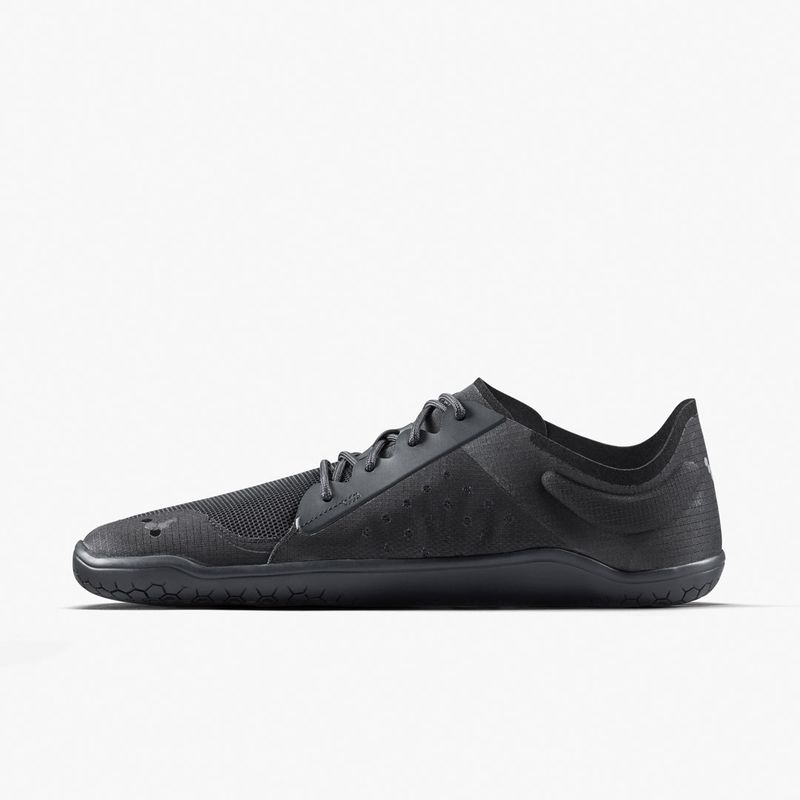
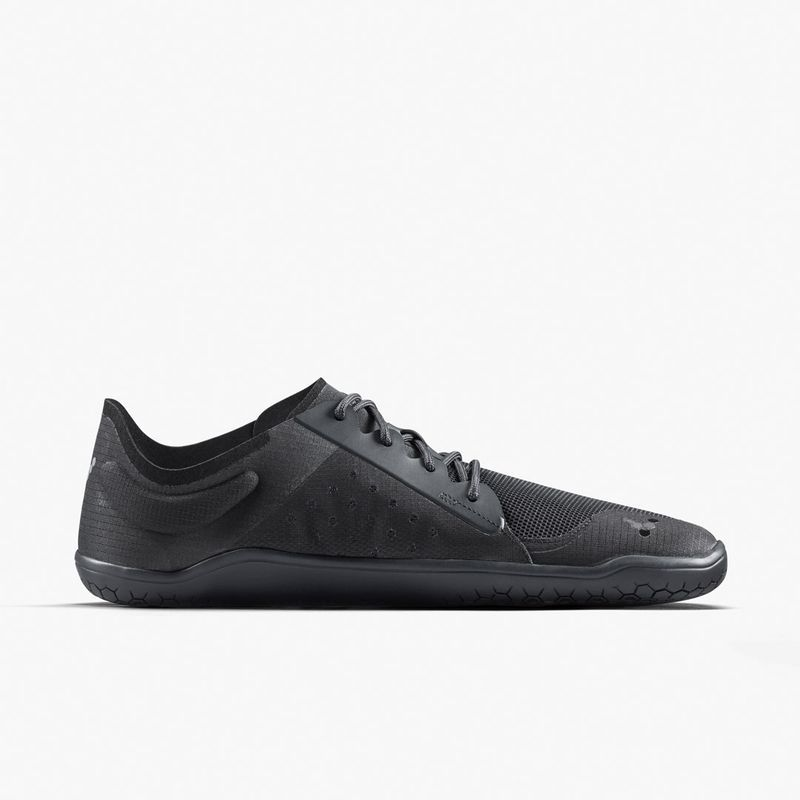
Reshoot the hero and section imagery, switch the body face, fix card defaults
Body type moves from Saira Semi Condensed to IBM Plex Sans Condensed,
picked by measuring rather than by eye: the price string "THB 9,150.00" at
18px is 102px in the reference's Knockout 31 and 102px in IBM Plex Sans
Condensed against Saira's 100px, and the general width sample is 858 vs
Knockout's 870 (Saira 853). Knockout itself is a licensed H&Co face we
cannot serve.

Product cards now lead with the single-shoe shot and show the pair on
hover, which is the way round the reference does it, and the colourway name
is back under the price. The Primus Lite IV Obsidian side view was mirrored
relative to every other model, so it is flipped to match. Colour swatches
show the same single-shoe framing as the card, and the lightbox opens on
the shot that was clicked.

Imagery: the hero is a new pair — a men's frame with more attitude on the
left, and on the right a women's Primus Lite IV Mineral in white. The right
panel is mirrored so the white shoe lands on the outer edge instead of
behind the headline. The activity tiles are re-picked for what each one is
meant to say: bright white shoes in motion for Live, battle rope and Motus
Strength II for Train, and stride-over-rock for Trail. The three Rewild
Your Feet frames are now all Primus Lite IV, a model Barefootinc actually
stocks, rather than Motus Flex.

The B Corp badge was too small to read in both places and is now 132px in
the brand block and 140px in the footer. The store heading breaks after
[…]

Changed region(s): [[0.0625, 0.4688, 0.9375, 0.7812]]

diff --git a/src/components/ProductRail.jsx b/src/components/ProductRail.jsx
@@ -52,13 +52,13 @@ function ProductCard({ product, onOpen }) {
         {product.badge && <span className="card__badge">{product.badge}</span>}
         <img
           className="card__img"
-          src={colour.images[0]}
+          src={colour.images[1] || colour.images[0]}
           alt={`${product.name} — ${colour.name}`}
           loading="lazy"
         />
         <img
           className="card__img card__img--alt"
-          src={colour.images[1] || colour.images[0]}
+          src={colour.images[0]}
           alt=""
           aria-hidden="true"
           loading="lazy"
@@ -80,7 +80,7 @@ function ProductCard({ product, onOpen }) {
                 title={v.name}
                 aria-current={n === c}
               >
-                <img src={v.images[0]} alt="" loading="lazy" />
+                <img src={v.images[1] || v.images[0]} alt="" loading="lazy" />
               </button>
             </li>
           ))}
@@ -93,6 +93,7 @@ function ProductCard({ product, onOpen }) {
           </h3>
           <span className="card__price">{product.price}</span>
         </div>
+        <p className="card__colour">{colour.name}</p>
         <p className="card__activity">{product.activity}</p>
       </div>
     </article>
@@ -154,7 +155,7 @@ export default function ProductRail({ tab, setTab }) {
         <Gallery
           product={gallery.product}
           colour={gallery.colour}
-          startAt={0}
+          startAt={1}
           onClose={() => setGallery(null)}
         />
       )}

diff --git a/src/index.css b/src/index.css
@@ -5,13 +5,14 @@
    serve. Oswald and Saira Semi Condensed are the closest freely
    licensable matches. Width of "HAMBURGEFONTSIV" at 100px:
      Knockout 50  734  ->  Oswald               733
-     Knockout 31  870  ->  Saira Semi Condensed 853
-   (Arial = 1011 for scale.)
+     Knockout 31  870  ->  IBM Plex Sans Cond.  858
+   (Arial = 1011 for scale.) The price string "THB 9,150.00" at 18px is
+   102px in Knockout 31 and 102px in IBM Plex Sans Condensed.
    ------------------------------------------------------------------ */
 
 :root {
   --font-display: 'Oswald', 'Arial Narrow', Arial, sans-serif;
-  --font-body: 'Saira Semi Condensed', 'Arial Narrow', Arial, sans-serif;
+  --font-body: 'IBM Plex Sans Condensed', 'Arial Narrow', Arial, sans-serif;
 
   --black: #000000;
   --ink: #333333;          /* reference body colour */

diff --git a/src/components/Store.jsx b/src/components/Store.jsx
@@ -10,7 +10,10 @@ export default function Store() {
       <div className="container">
         <div className="store__grid">
           <div className="store__copy">
-            <h2 className="h-section">Try them on @ Barefootinc K Village</h2>
+            <h2 className="h-section">
+              Try them on
+              <span className="store__headBreak">@ Barefootinc K Village</span>
+            </h2>
             <p className="store__lede">
               Barefoot sizing is not the same as your normal shoe size. Come in, get
               measured, and let our team walk you through fit, feel and the

diff --git a/src/App.css b/src/App.css
@@ -504,7 +504,7 @@
 
 .intro__bcorp img {
   flex: 0 0 auto;
-  width: 66px;
+  width: 132px;
   height: auto;
 }
 
@@ -714,6 +714,13 @@
   line-height: 1.43;
   color: var(--ink-strong);
   white-space: nowrap;
+}
+
+.card__colour {
+  margin-top: 2px;
+  font-size: 13px;
+  line-height: 1.35;
+  color: var(--ink-muted);
 }
 
 .card__activity {
@@ -1228,6 +1235,10 @@
   }
 }
 
+.store__headBreak {
+  display: block;
+}
+
 .store__lede {
   max-width: 46ch;
 }
@@ -1456,7 +1467,7 @@
 .footer__bcorp {
   display: block;
   margin-top: 26px;
-  width: 72px;
+  width: 140px;
   height: auto;
 }
 

diff --git a/src/components/Footer.jsx b/src/components/Footer.jsx
@@ -57,9 +57,9 @@ export default function Footer() {
             </div>
 
             <p>
-              Barefootinc is the official VIVOBAREFOOT and Vibram FiveFingers
-              distributor in Thailand. Wide, thin and flexible footwear, and the
-              people to help you move in it.
+              Barefootinc is the official VIVOBAREFOOT distributor in Thailand.
+              Wide, thin and flexible footwear, and the people to help you move in
+              it.
             </p>
 
             <a

diff --git a/index.html b/index.html
@@ -14,7 +14,7 @@
     <link rel="preconnect" href="https://fonts.gstatic.com" crossorigin />
     <link
       rel="stylesheet"
-      href="https://fonts.googleapis.com/css2?family=Oswald:wght@400;500;600;700&family=Saira+Semi+Condensed:wght@400;500;600;700&display=swap"
+      href="https://fonts.googleapis.com/css2?family=Oswald:wght@400;500;600;700&family=IBM+Plex+Sans+Condensed:wght@400;500;600;700&display=swap"
     />
     <script type="application/ld+json">
       {
